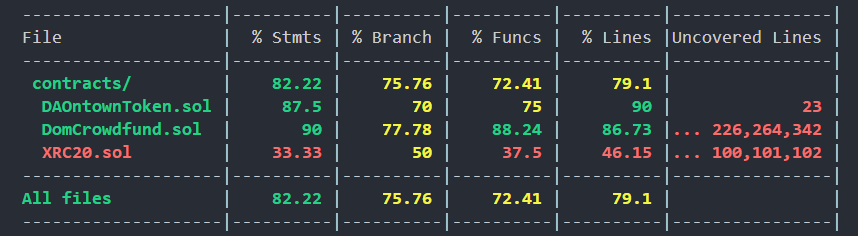
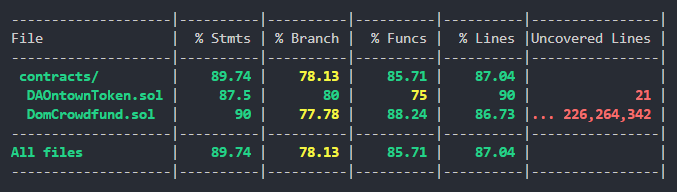
first commit

Changed region(s): [[0.0, 0.0312, 0.9926, 0.9688]]

diff --git a/test/daontown-token.unit.test.js b/test/daontown-token.unit.test.js
@@ -11,7 +11,7 @@ const {
 } = require("../helper-hardhat-config");
 const chainId = network.config.chainId;
 //const usdcAddress = networkConfig[chainId]["usdcAddress"];
-const ERC20ABI = require("../utils/ERC20ABI.json");
+//const ERC20ABI = require("../utils/ERC20ABI.json");
 var accounts,
     deployer,
     pledger,
@@ -49,13 +49,6 @@ if (chainId == 31337) {
                         pledgerCalling.mint(pledger.address, 10000)
                     ).to.be.revertedWith("Ownable: caller is not the owner");
                 });
-                it("mints and sends tokens correctly", async function () {
-                    // 1000 is hardcoded in contract to be minted to deployer.
-                    const balance = await daontownToken.balanceOf(
-                        deployer.address
-                    );
-                    assert.equal(balance.toString(), utils.parseEther("1000"));
-                });
             });
             describe("claimDAOntownTokens()", function () {
                 beforeEach(async function () {
@@ -90,9 +83,6 @@ if (chainId == 31337) {
                     ).to.be.revertedWith("Campaign did not meet funding goal.");
                 });
                 it("allows pledger to mint and withdraw tokens 1-for-1 with pledge amount", async function () {
-                    // Campaign has met goal and pledger has pledged.
-                    const [, , , , expiryDate] =
-                        await domCrowdfund.getCampaignInfo(0);
                     await domCrowdfund.connect(pledger).pledge(0, {
                         value: utils.parseEther("0.0009"),
                     });
@@ -100,11 +90,26 @@ if (chainId == 31337) {
                         0,
                         pledger.address
                     );
+                    // Campaign has met goal and pledger has pledged.
                     await pledgerCalling.claimDAOntownTokens(0);
                     const tokenBalance = await daontownToken.balanceOf(
                         pledger.address
                     );
                     assert.equal(tokenBalance.toString(), amount.toString());
+                });
+                it("only allows pledger to mint/withdraw once", async function () {
+                    await domCrowdfund.connect(pledger).pledge(0, {
+                        value: utils.parseEther("0.0009"),
+                    });
+                    const amount = await domCrowdfund.getAmountPledged(
+                        0,
+                        pledger.address
+                    );
+                    // Campaign has met goal and pledger has pledged.
+                    await pledgerCalling.claimDAOntownTokens(0);
+                    await expect(
+                        pledgerCalling.claimDAOntownTokens(0)
+                    ).to.be.revertedWith("Already minted your allotment.");
                 });
             });
             describe("Modifiers", function () {

diff --git a/app/src/App.js b/app/src/App.js
@@ -33,7 +33,7 @@ function App() {
             }
 
             const crowdfundAddress =
-                "0xCdB16867FF1f63b2F976B486d4ec3b4CD028fCDf";
+                "0x81fa7a47bE7BBa84a6391773e8481725310563C8";
             const domCrowdfundInstance = new ethers.Contract(
                 crowdfundAddress,
                 crowdfundContract.abi,
@@ -42,7 +42,7 @@ function App() {
             setDomCrowdfund(domCrowdfundInstance);
 
             const daontownTokenAddress =
-                "0xFa258af3f838193Db1D6143f4693025a40A628b8";
+                "0x6ecA5993Ef426ff5c67B859676120d0b8AF597fA";
             const daontownTokenInstance = new ethers.Contract(
                 daontownTokenAddress,
                 daontownTokenContract.abi,
@@ -244,12 +244,12 @@ function App() {
                 </label>
 
                 <label>
-                    Campaign Funding Goal (in TXDC)
+                    Campaign Funding Goal (in ETH)
                     <input type="text" id="target" />
                 </label>
 
                 <label>
-                    Pledger Refund Bonus (in TXDC)
+                    Pledger Refund Bonus (in ETH)
                     <input type="text" id="refund" />
                 </label>
 

diff --git a/deploy/01-deploy-token.js b/deploy/01-deploy-token.js
@@ -20,16 +20,18 @@ module.exports = async function ({ getNamedAccounts, deployments }) {
         });
     } else {
         log("------------------------------------");
-        // Deployed token contract to testnet a while after crowdfund contract
-        // due to some omissions, so hardcoding crowdfund address here:
-        domCrowdfund = (await deployments.get("DomCrowdfund")).address;
-        daontownToken = await deploy("DAOntownToken", {
-            contract: "DAOntownToken",
-            from: deployer,
-            log: true,
-            args: [domCrowdfund],
-            waitConfirmations: network.config.blockConfirmations || 3,
-        });
+        domCrowdfund = "0x81fa7a47bE7BBa84a6391773e8481725310563C8";
+        daontownToken = await deploy(
+            "DAOntownToken",
+            {
+                contract: "DAOntownToken",
+                from: deployer,
+                log: true,
+                args: [domCrowdfund],
+                waitConfirmations: network.config.blockConfirmations || 3,
+            },
+            { gasLimit: 500_000 }
+        );
     }
 
     if (

diff --git a/hardhat.config.js b/hardhat.config.js
@@ -6,8 +6,6 @@ const OPTIMISM_GOERLI_RPC_URL = process.env.OPTIMISM_GOERLI_RPC_URL;
 const OPTIMISM_MAINNET_RPC_URL = process.env.OPTIMISM_MAINNET_RPC_URL;
 const XDC_APOTHEM_RPC_URL = process.env.XDC_APOTHEM_RPC_URL;
 const XDC_RPC_URL = process.env.XDC_RPC_URL;
-const POLYGON_MAINNET_RPC_URL = process.env.POLYGON_MAINNET_RPC_URL;
-const POLYGON_MUMBAI_RPC_URL = process.env.POLYGON_MUMBAI_RPC_URL;
 const PRIVATE_KEY = process.env.PRIVATE_KEY;
 // const ETHERSCAN_API_KEY = process.env.ETHERSCAN_API_KEY;
 const OPTIMISM_ETHERSCAN_API_KEY = process.env.OPTIMISM_ETHERSCAN_API_KEY;
@@ -21,10 +19,10 @@ module.exports = {
     networks: {
         hardhat: {
             chainId: 31337,
-            // forking: {
-            //     url: XDC_APOTHEM_RPC_URL,
-            //     blockNumber: 49758646,
-            // },
+            forking: {
+                url: OPTIMISM_MAINNET_RPC_URL,
+                blockNumber: 10284799,
+            },
         },
         localhost: {
             chainId: 31337,

diff --git a/deploy/00-deploy-fund.js b/deploy/00-deploy-fund.js
@@ -17,12 +17,16 @@ module.exports = async function ({ getNamedAccounts, deployments }) {
         });
     } else {
         log("------------------------------------");
-        domCrowdfund = await deploy("DomCrowdfund", {
-            contract: "DomCrowdfund",
-            from: deployer,
-            log: true,
-            waitConfirmations: network.config.blockConfirmations || 3,
-        });
+        domCrowdfund = await deploy(
+            "DomCrowdfund",
+            {
+                contract: "DomCrowdfund",
+                from: deployer,
+                log: true,
+                waitConfirmations: network.config.blockConfirmations || 3,
+            },
+            { gasLimit: 500_000 }
+        );
     }
 
     if (

diff --git a/app/src/ExistingCampaign.js b/app/src/ExistingCampaign.js
@@ -63,7 +63,7 @@ export default function ExistingCampaign({
                     <div> {creatorHasWithdrawn} </div>
                 </li>
                 <label>
-                    Pledge amount (in TXDC):
+                    Pledge amount (in ETH):
                     <input type="text" id="pledge-amount" />
                 </label>
                 <div

diff --git a/app/src/NewCampaign.js b/app/src/NewCampaign.js
@@ -43,7 +43,7 @@ export default function NewCampaign({
                     <div> {maxEarlyPledgers} </div>
                 </li>
                 <label>
-                    Pledge amount (in TXDC):
+                    Pledge amount (in ETH):
                     <input type="text" id="pledge-amount" />
                 </label>
                 <div

diff --git a/readme.md b/readme.md
@@ -25,7 +25,7 @@
 
 This project translates Alex Tabarrok’s “dominant assurance” contracts idea to the blockchain in the form of a working escrow contract for the crowdfunding of a property. Click [here](https://foresight.org/summary/dominant-assurance-contracts-alex-tabarrok-george-mason-university/) for more info on dominant assurance. This alternative mechanism can be extended to fund any public good.
 
-Using "DAOntown" as the main campaign example, any pledger that pledges to the campaign will be able to mint and claim DAOntown tokens, which could represent their share of governance rights, land use rights, etc. The token contract is presently written with the XRC20 standard, but could easily be replaced with the XRC721 or other token standard if desired.
+Using "DAOntown" as the main campaign example, any pledger that pledges to the campaign will be able to mint and claim DAOntown tokens, which could represent their share of governance rights, land use rights, etc. The token contract is presently written with the ERC20 standard, but could easily be replaced with the ERC721 or other token standard if desired.
 
 ### DomCrowdfund.sol Crowdfunding Contract Functionality
 
@@ -53,7 +53,7 @@ Using "DAOntown" as the main campaign example, any pledger that pledges to the c
 
 ### DAOntownToken.sol XRC20 Token Contract Functionality
 
--   `claimDAOntownTokens()` is really the only function that can be called on this contract by campaign pledgers. In this project example, DAOntown tokens are minted and sent 1-for-1 to pledgers based on how much TXDC they pledged to the campaign. These tokens can be used as governance tokens, land use right tokens, etc.
+-   `claimDAOntownTokens()` is really the only function that can be called on this contract by campaign pledgers. In this project example, DAOntown tokens are minted and sent 1-for-1 to pledgers based on how much ETH they pledged to the campaign. These tokens can be used as governance tokens, land use right tokens, etc.
 -   `mint()` can only be called by the token contract owner. Ownership could be transferred to a multisig after a successful campaign so that the property token holders can vote on if they want to mint more tokens or keep with the existing supply.
 
 <p align="right">(<a href="#readme-top">back to top</a>)</p>
@@ -62,15 +62,15 @@ Using "DAOntown" as the main campaign example, any pledger that pledges to the c
 
 ## Project Technicals
 
-Crowdfund w/ Dominant Assurance (DomCrowdfund.sol) Contract Address: xdc02e6dBd011cA192FAb56713D0ACb0ac034f0C878
+Crowdfund w/ Dominant Assurance (DomCrowdfund.sol) Contract Address: 0x81fa7a47bE7BBa84a6391773e8481725310563C8
 
-[BlocksScan Crowdfund Contract Page - XDC Apothem Testnet](https://explorer.apothem.network/address/xdccdb16867ff1f63b2f976b486d4ec3b4cd028fcdf#readContract)
+[Crowdfund Contract Page - Optimism-Goerli Testnet](https://goerli-optimism.etherscan.io/address/0x81fa7a47be7bba84a6391773e8481725310563c8#code)
 
-DAOntown Token (DAOntownToken.sol) Contract Address: xdc0fAeF7797c27238dA41Bb0b35F7d0E87D3F2D110
+DAOntown Token (DAOntownToken.sol) Contract Address: 0x6ecA5993Ef426ff5c67B859676120d0b8AF597fA
 
-[BlocksScan DAOntown Token Contract Page - XDC Apothem Testnet](https://explorer.apothem.network/tokens/xdcfa258af3f838193db1d6143f4693025a40a628b8#token-transfer)
+[DAOntown Token Contract Page - Optimism-Goerli Testnet](https://goerli-optimism.etherscan.io/address/0x6ecA5993Ef426ff5c67B859676120d0b8AF597fA#code)
 
-[Live dApp Link](https://black-night-1404.on.fleek.co/)
+Live dApp Link coming soon
 
 Test Coverage Report:
 
@@ -82,17 +82,13 @@ Test Coverage Report:
 
 ## Usage
 
--   Testnet XDC is needed to interact with the app. It can be obtained from this [faucet](https://faucet.blocksscan.io/).
+-   Testnet ETH is needed to interact with the app. It can be obtained from this [faucet](https://goerlifaucet.com/), then bridged to Optimism Goerli.
 
 -   Please use MetaMask to interact with the app.
 
 -   Most everything is tied to the campaign ID#. Users need it when calling functions for pledging, withdrawing, and claiming tokens.
 
--   There are two known bugs:
-    -   Though the smart contracts are workig properly on chain, the campaign ID and expiry date are not populating correctly on the front end. It is something in the interaction between the front end and the crowdfunding project when using the useState Hook in React. The variables are populating
-    -   `getCampaignRefundStatus()` is reverting. It is wigging out on array memory I'm fairly sure
--   I ran out of time to fix them before the Web3athon Hackathon submission deadline, but these bugs do not seem to be too major in terms of effort and can be addressed on the next iteration
--   Regarding the first bug, to interact with a full life cycle of a campaign, after you have created a campaign, do not refresh the page and do not create a second campaign. To create a second campaign, just refresh the page, and the front end will display correctly for just that second campaign. It will not update functionality and/or state properly for both campaigns. (Just ran out of time to fix!) As a reminder, the crowdfunding smart contract is working as intended, so you can always run through complete life cycles using the BlocksScan Read and Write Contract pages, since the contract is verified.
+-   Though the smart contracts are workig properly on chain, the campaign ID is not currently populating correctly on the front end.To interact with a full life cycle of a campaign, after you have created a campaign, do not refresh the page until you are done with that campaign. To create a second campaign, just refresh the page. It will not update functionality and/or state properly for both campaigns. As a reminder, the crowdfunding smart contract is working as intended, so you can always run through complete life cycles using the Block Explorer Read and Write Contract pages, since the contract is verified.
 
 Here's a couple of screenshots of the app in action:
 
@@ -106,11 +102,11 @@ Here's a couple of screenshots of the app in action:
 
 ## For The Devs
 
-For quickstart `git clone repo` TODO and `cd` into directory and run `npm install`.
+For quickstart, clone the repo using the link from Github, `cd` into directory, and run `npm install`.
 
 Then `cd` into the `/app` directory and run `npm install`.
 
-To run the front-end application, run `npm start` from the `/app` directory. Open [http://localhost:3000](http://localhost:3000) to view it in your browser.
+To launch the front-end application, run `npm start` from the `/app` directory. Open [http://localhost:3000](http://localhost:3000) to view it in your browser.
 
 ### Development Stack, Plugins, Libraries, and Dependencies
 
@@ -124,7 +120,6 @@ To run the front-end application, run `npm start` from the `/app` directory. Ope
 
 ## Future Considerations
 
--   Fix the return variables (amount refunded, percent refunded) to the getCampaignRefundStatus() function. Looping through the plegers array was causing panic code 17 in testing. Could not figure out a way to provide the desired functionality without getting the panic code.
 -   Add edge case or bizarre case testing in unit tests and staging tests.
 -   Add user action feedback, e.g. creating visual displays when a campaign has met a goal from a pledge, error messaging, etc.
 -   Add more functionality on the front end to get info on existing or past campaigns.
@@ -136,7 +131,7 @@ To run the front-end application, run `npm start` from the `/app` directory. Ope
 
 ## Lessons Learned
 
--   I have to remind myself that often the location of the bug is not in the obvious place. If a particular element is not working properly, there's a good chance it is because of another element elsewhere. Slow down and back up to bring all causes and effects into focus.
+-   I have to remind myself that often that bug locations are not in obvious places. If a particular element is not working properly, there's a good chance it is because of another element elsewhere. Slowing down and backing up can help bring all causes and effects into focus.
 
 <p align="right">(<a href="#readme-top">back to top</a>)</p>
 
@@ -170,6 +165,6 @@ Armand Daigle - [@\_Starmand](https://twitter.com/_Starmand) - armanddaoist@gmai
 
 Thanks to Scott Auriat for his consultation on different aspects, as well as introducing me to the dominant assurance strategy.
 
-A big thanks to the XDC support team and community. The [XDC community docs](https://docs.xdc.community/) were especially helpful and made it a fairly straightforward process to go from knowing zero about deploying to XDC to successfully deploying two contracts in about two days.
+A big thanks to the fellow Alchemy University students and community for helping me learn a lot about React.
 
 <p align="right">(<a href="#readme-top">back to top</a>)</p>
